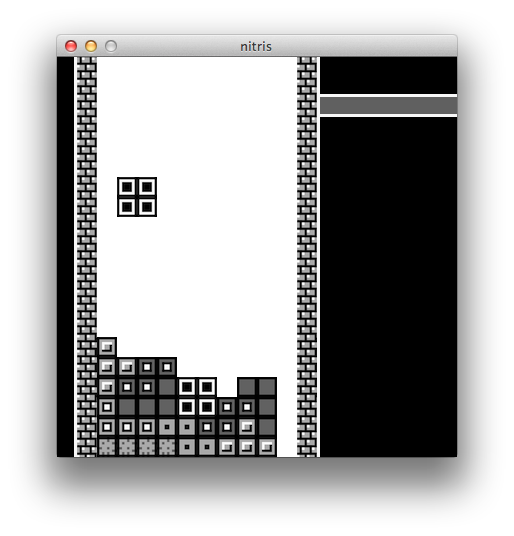
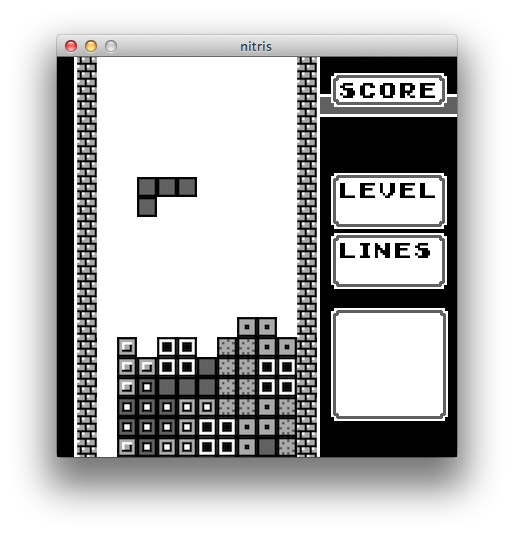
Added boxes that will contain score/level/lines/queue

diff --git a/nitris.py b/nitris.py
@@ -48,21 +48,51 @@ def main():
     
     # Create window
     window = pygame.display.set_mode(W_SIZE)
+    pygame.display.set_caption("nitris")
+
     # Draw sidebar
     sidebar = pygame.image.load(os.path.join(ASSETS_DIR, "sidebar.png"))
     window.blit(sidebar, (20, 0))
     window.blit(sidebar, (240, 0))
-    pygame.draw.line(window, (247, 247, 247), (18, 0), (18, 400), 3)
-    pygame.draw.line(window, (247, 247, 247), (261, 0), (261, 400), 3)
+    pygame.draw.line(window, WHITE, (18, 0), (18, 400), 3)
+    pygame.draw.line(window, WHITE, (261, 0), (261, 400), 3)
     # Draw box under score
-    pygame.draw.rect(window, (96, 96, 96), (263, 40, 137, 17))
-    pygame.draw.line(window, (247, 247, 247), (263, 38), (400, 38), 3)
-    pygame.draw.line(window, (247, 247, 247), (263, 58), (400, 58), 3)
+    pygame.draw.line(window, WHITE, (263, 38), (400, 38), 3)
+    pygame.draw.rect(window, GREY, (263, 40, 137, 17))
+    pygame.draw.line(window, WHITE, (263, 58), (400, 58), 3)
     # Draw score, level, lines, queue // initialise them to 0 or next block
-    ###
-    ###
+    def draw_box(start, end):
+        t = 3                               # 'Thickness' of the box
+        wx, wy = start[0]+1, start[1]
+        ww, wh = tuple(map(lambda x, y: x - y, end, start))
 
-    pygame.display.set_caption("nitris")
+        outer_box = [(wx-t, wy+t), (wx, wy+t), (wx, wy),
+                     (wx+ww-t, wy), (wx+ww-t, wy+t), (wx+ww, wy+t),
+                     (wx+ww, wy+wh-t), (wx+ww-t, wy+wh-t), (wx+ww-t, wy+wh),
+                     (wx, wy+wh), (wx, wy+wh-t), (wx-t, wy+wh-t)]
+
+        bx, by = wx+t, wy+t
+        bw, bh = ww-(2*t), wh-(2*t)
+
+        inner_box = [(bx-t, by+t), (bx, by+t), (bx, by), 
+                     (bx+bw-t, by), (bx+bw-t, by+t), (bx+bw, by+t),
+                     (bx+bw, by+bh-t), (bx+bw-t, by+bh-t), (bx+bw-t, by+bh), 
+                     (bx, by+bh), (bx, by+bh-t), (bx-t, by+bh-t)]
+
+        pygame.draw.polygon(window, WHITE, outer_box, 0)
+        pygame.draw.polygon(window, GREY, inner_box, 3)
+
+        return start[0]+7, start[1]+5       # Where the content of the box goes
+    score = draw_box((276, 16), (388, 49))
+    level = draw_box((276, 116), (388, 171))
+    lines = draw_box((276, 176), (388, 231))
+    queue = draw_box((276, 251), (389, 363))
+    # Text
+    window.blit(font.render("score", 1, BLACK), score)
+    window.blit(font.render("level", 1, BLACK), level)
+    window.blit(font.render("lines", 1, BLACK), lines)
+
+    # Create game surface
     screen = pygame.Surface(G_SIZE)
 
     # Create clock

diff --git a/config.py b/config.py
@@ -39,10 +39,13 @@ Z = BlockType("Z", os.path.join(BLOCKS_DIR, "Z.png"))
 
 # Colours
 BLACK = (  0,   0,   0)
+# BLACK = (53, 53, 53)
 WHITE = (255, 255, 255)
+# WHITE = (248, 248, 248)
 BLUE  = (  0,   0, 255)
 GREEN = (  0, 255,   0)
 RED   = (255,   0,   0)
+GREY   = (96, 96, 96)
 
 # Window size
 W_WIDTH, W_HEIGHT = 400, 400            # Remove two rows at the end (they should be hidden)
@@ -68,3 +71,8 @@ MOVE_TICKER_DEFAULT = 10 # Allow a move every 10 frames = every 0.2 second
 SOFTDROPSPEED = 0.08
 LATERALSPEED = 0.15
 DEFAULTFALLSPEED = 1
+
+# Font
+pygame.font.init()
+font = pygame.font.Font("./assets/fonts/tetris-gb.ttf", 20)
+
